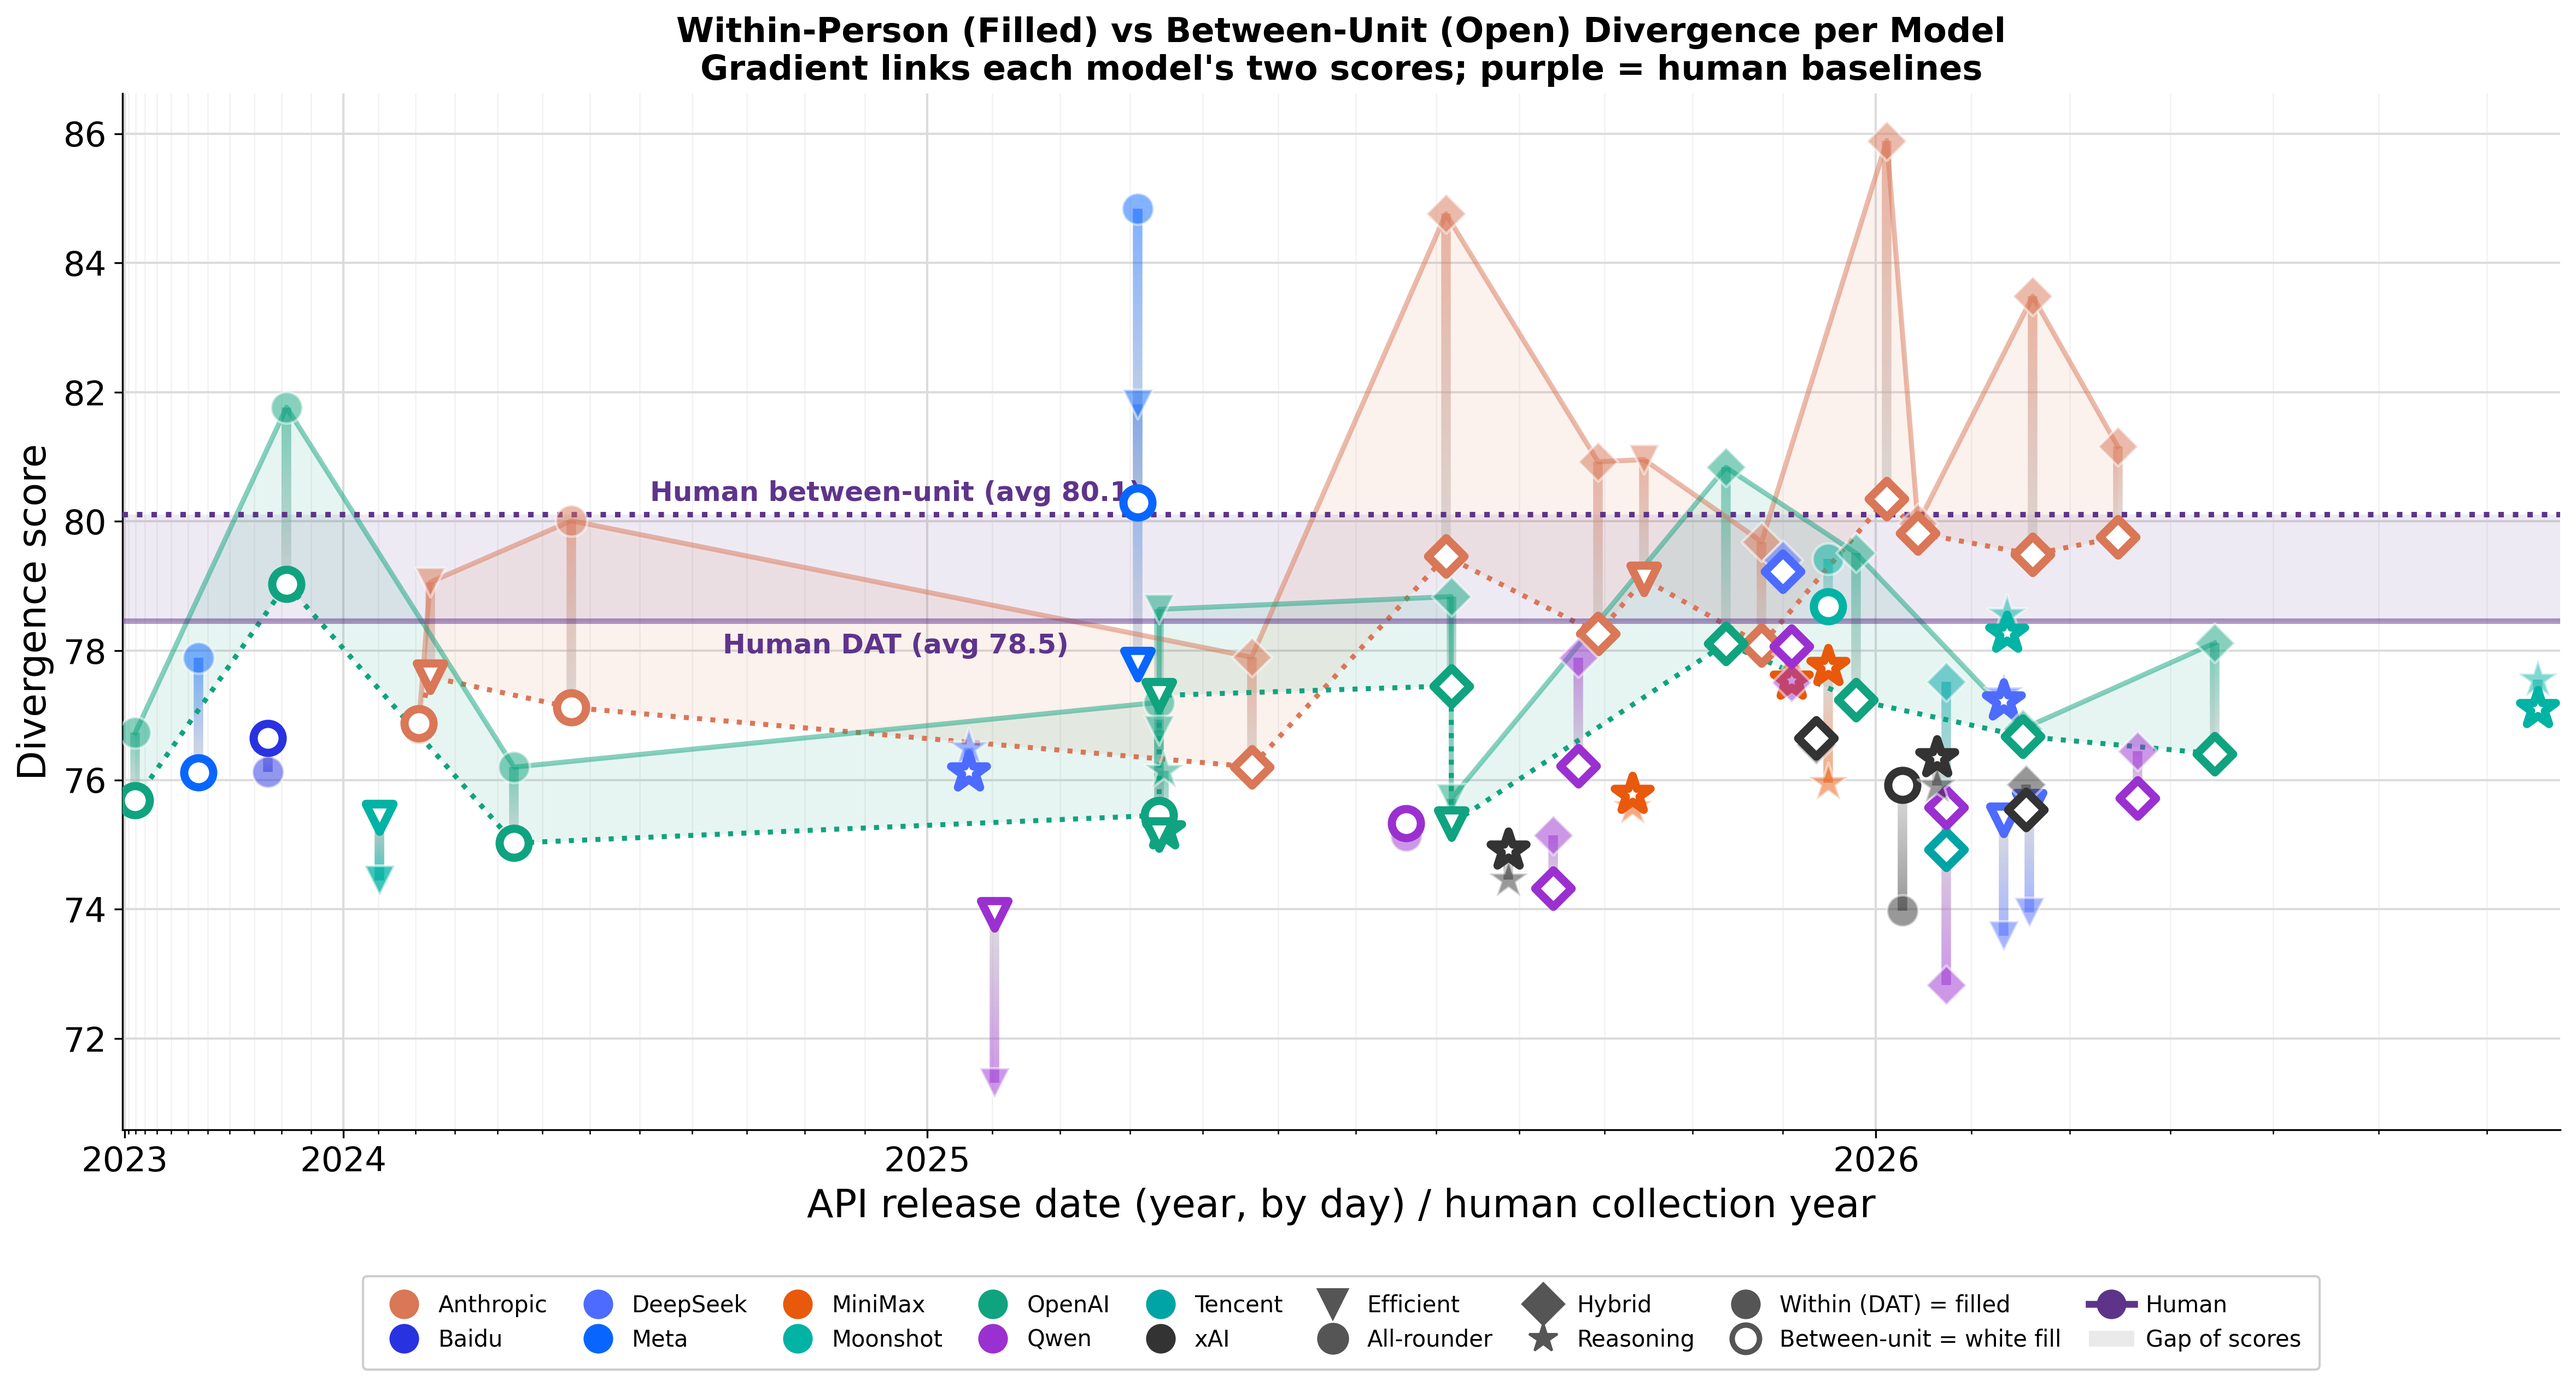
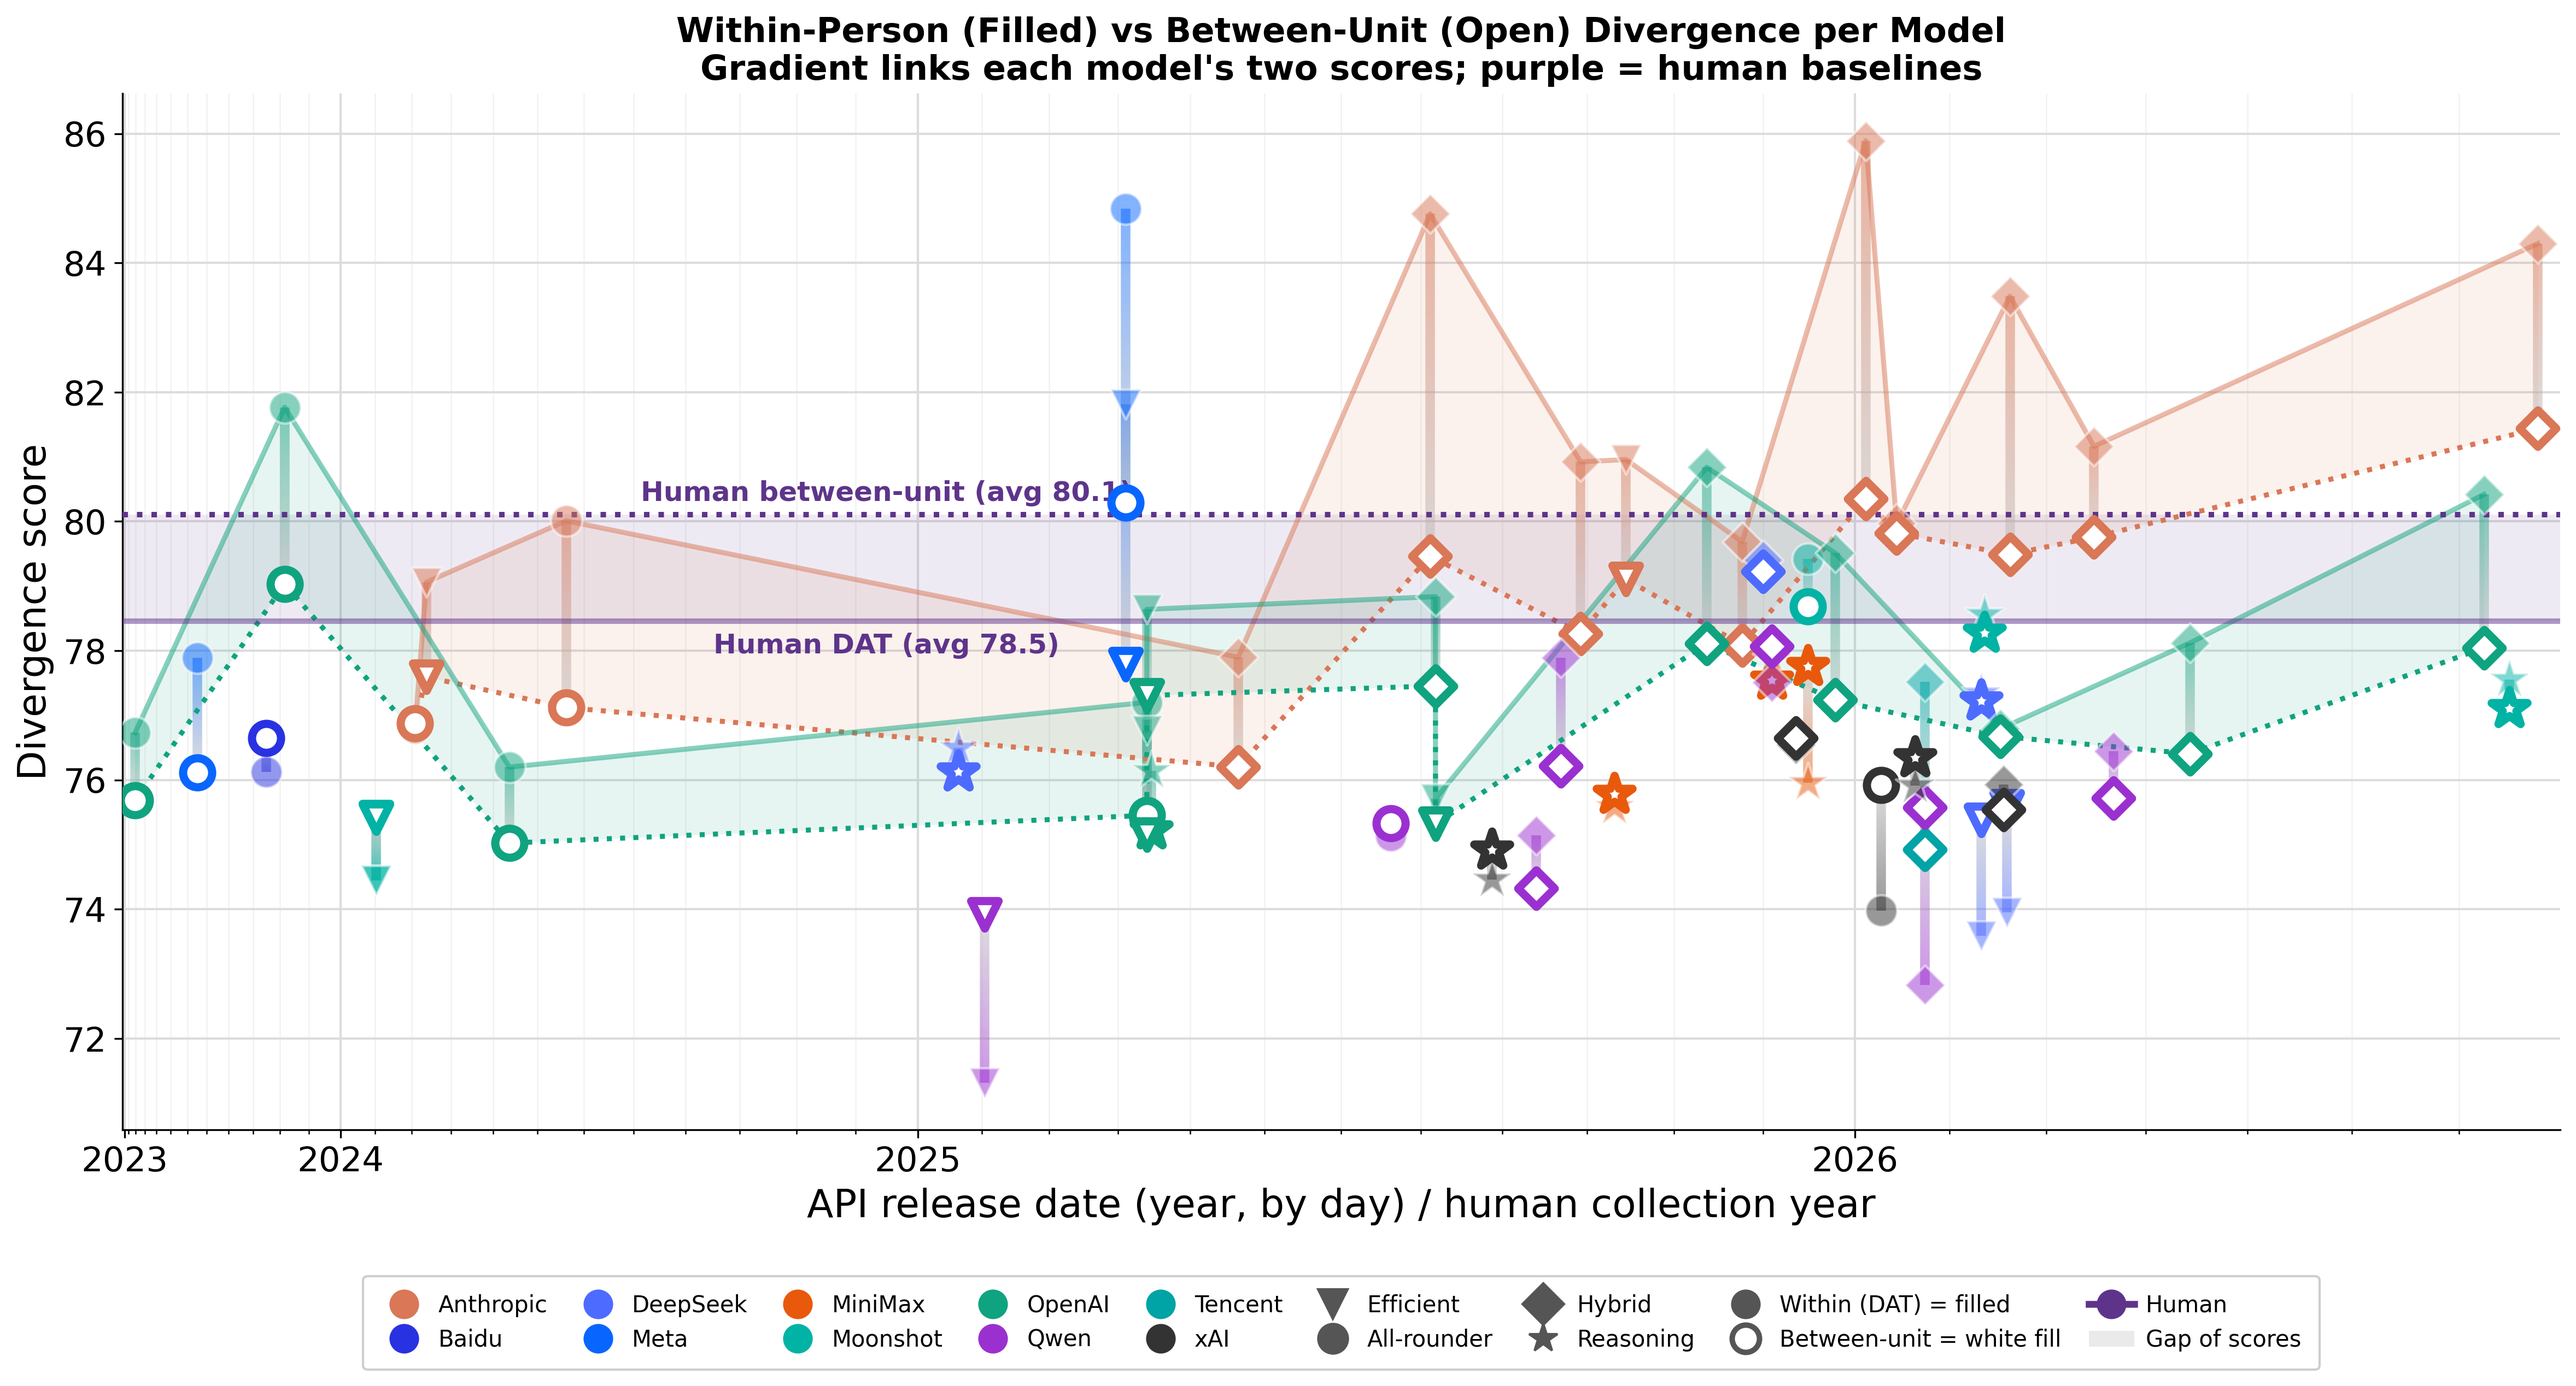
Add Claude-Opus-5 (2026-07-24) and GPT-5.6-Sol (2026-07-09) to over-time figures
- Claude-Opus-5: DAT 84.30 / between-unit 81.44 (n=508)
- GPT-5.6-Sol:   DAT 80.42 / between-unit 78.04 (n=514)
- Kimi-K3:       DAT 77.56 / between-unit 77.10 (n=508)
Both new models collected with the standard protocol (baseline prompt, provider-midpoint temp -> forced 1.0, default thinking effort) and scored with the Olson 2021 DAT scorer + position-aware between-unit scorer.
reasoning_text is empty for both by API limitation: Anthropic returns encrypted thinking (signature only, no plaintext); OpenAI does not expose reasoning text on chat/completions. Endpoint kept constant for cross-model comparability.

diff --git a/analysis/build_overtime_data.py b/analysis/build_overtime_data.py
@@ -6,7 +6,11 @@ ROOT="/home/user/cn"
 BASE=f"{ROOT}/machine_data/processed/machine_final_baseline_midpoint.csv"   # committed dat_score per row
 MERGED=f"{ROOT}/machine_data/processed/machine_all_merged.csv"               # committed between_unit_posaware + metadata
 HUMAN=f"{ROOT}/human_data/processed/human_dat_all.csv"
-K3=f"{ROOT}/machine_data/raw_reasoning/topup_moonshot_k3.csv"
+NEW_MODELS=[
+  ("Kimi-K3",  f"{ROOT}/machine_data/raw_reasoning/topup_moonshot_k3.csv",      (2026,7,16,'moonshot','reasoning','exact')),
+  ("Claude-Opus-5", f"{ROOT}/machine_data/raw_reasoning/topup_anthropic_opus5.csv", (2026,7,24,'anthropic','hybrid','exact')),
+  ("GPT-5.6-Sol",   f"{ROOT}/machine_data/raw_reasoning/topup_openai_gpt56sol.csv", (2026,7,9,'openai','hybrid','exact')),
+]
 REFDIR=f"{ROOT}/machine_data/between_unit_references"
 V=pickle.load(open("/home/user/repro/models/glove_olson.pickle","rb"))
 
@@ -81,16 +85,16 @@ for row in csv.DictReader(open(MERGED,encoding='utf-8-sig',errors='replace')):
 
 # ---- Kimi-K3 scored identically ----
 NC=[f"noun_{i}" for i in range(10)]
-k3d=[];k3b=[]
-for row in csv.DictReader(open(K3)):
-    if row['model_name']!='Kimi-K3': continue
-    nouns=[row.get(c,"") for c in NC]
-    ds=dat(nouns); bs=bpa(nouns)
-    if ds is not None: k3d.append(ds)
-    if bs is not None: k3b.append(bs)
-dat_by['Kimi-K3']=k3d; btw_by['Kimi-K3']=k3b
-info['Kimi-K3']=(2026,7,16,'moonshot','reasoning','exact')
-print(f"K3 DAT n={len(k3d)} mean={np.mean(k3d):.2f} | between n={len(k3b)} mean={np.mean(k3b):.2f}")
+for mname, path, meta in NEW_MODELS:
+    dd=[];bb=[]
+    for row in csv.DictReader(open(path)):
+        if row['model_name']!=mname: continue
+        nouns=[row.get(c,"") for c in NC]
+        ds=dat(nouns); bs=bpa(nouns)
+        if ds is not None: dd.append(ds)
+        if bs is not None: bb.append(bs)
+    dat_by[mname]=dd; btw_by[mname]=bb; info[mname]=meta
+    print(f"{mname}: DAT n={len(dd)} mean={np.mean(dd):.2f} | between n={len(bb)} mean={np.mean(bb):.2f}")
 
 def recs(by):
     out=[]
